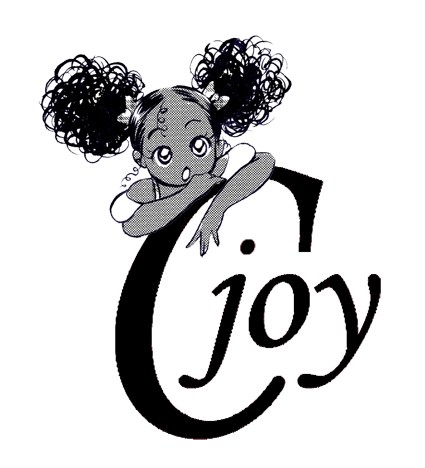
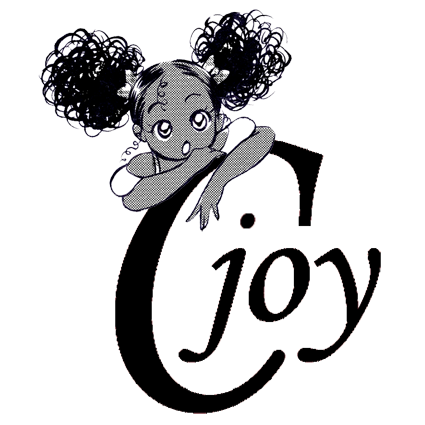
mobile improvements

diff --git a/src/pages/about.jsx b/src/pages/about.jsx
@@ -20,10 +20,10 @@ const StyledDiv = styled.div`
 
 export default function About() {
 	return (
-		<Layout heading = {"I'm just a girl who likes to draw manga"} >
+		<Layout heading = {"Just a girl who likes to draw manga"} >
       <StyledDiv>
-        {/* <StaticImage style={{width:"600px", margin: "4rem 0", 'objectFit': 'contain'}} src={`../images/cjoy.png`} alt="C Joy"/> */}
-              <StaticImage layout="constrained"  aspectRatio={1} style={{maxWidth:600, margin: "4rem 0", padding:"1rem", objectFit: 'contain'}} src="../images/cjoy.png" alt="C Joy"/>
+
+              <StaticImage layout="fullWidth"  aspectRatio={1} style={{maxWidth:425, margin: "4rem 0", padding:"1rem"}} src="../images/cjoy.png" alt="C Joy"/>
 
 
         <p>Hello my lovelies~ </p>

diff --git a/src/pages/events.jsx b/src/pages/events.jsx
@@ -20,7 +20,7 @@ export default function Events({data}) {
     <Layout heading = {"Catch me outside! "}>
       <StyledDiv>
         {data.allDatoCmsLiveEvent.nodes.map(liveEvent => {
-         const startDate=moment(liveEvent.startDate).utcOffset(1).format( "dddd, MMMM Do YYYY, h:mm a");
+         const startDate=moment(liveEvent.startDate).format( "dddd, MMMM Do YYYY, h:mm a");
          const endDate=moment(liveEvent.endDate).format( "dddd, MMMM Do YYYY, h:mm a");
      
           return (

diff --git a/src/components/Slider/index.jsx b/src/components/Slider/index.jsx
@@ -23,10 +23,18 @@ const StyledDiv = styled.div`
       height: 10px;
      
     }
-  }
+  @media (max-width: 450px){
+    .alice-carousel__dots-item{
+      width: 0px;
+      height: 0px;
+     
+    }
+
+
 `;
 
 export default function Slider(props) {
+  
   return(
     <StaticQuery
       query={graphql`
